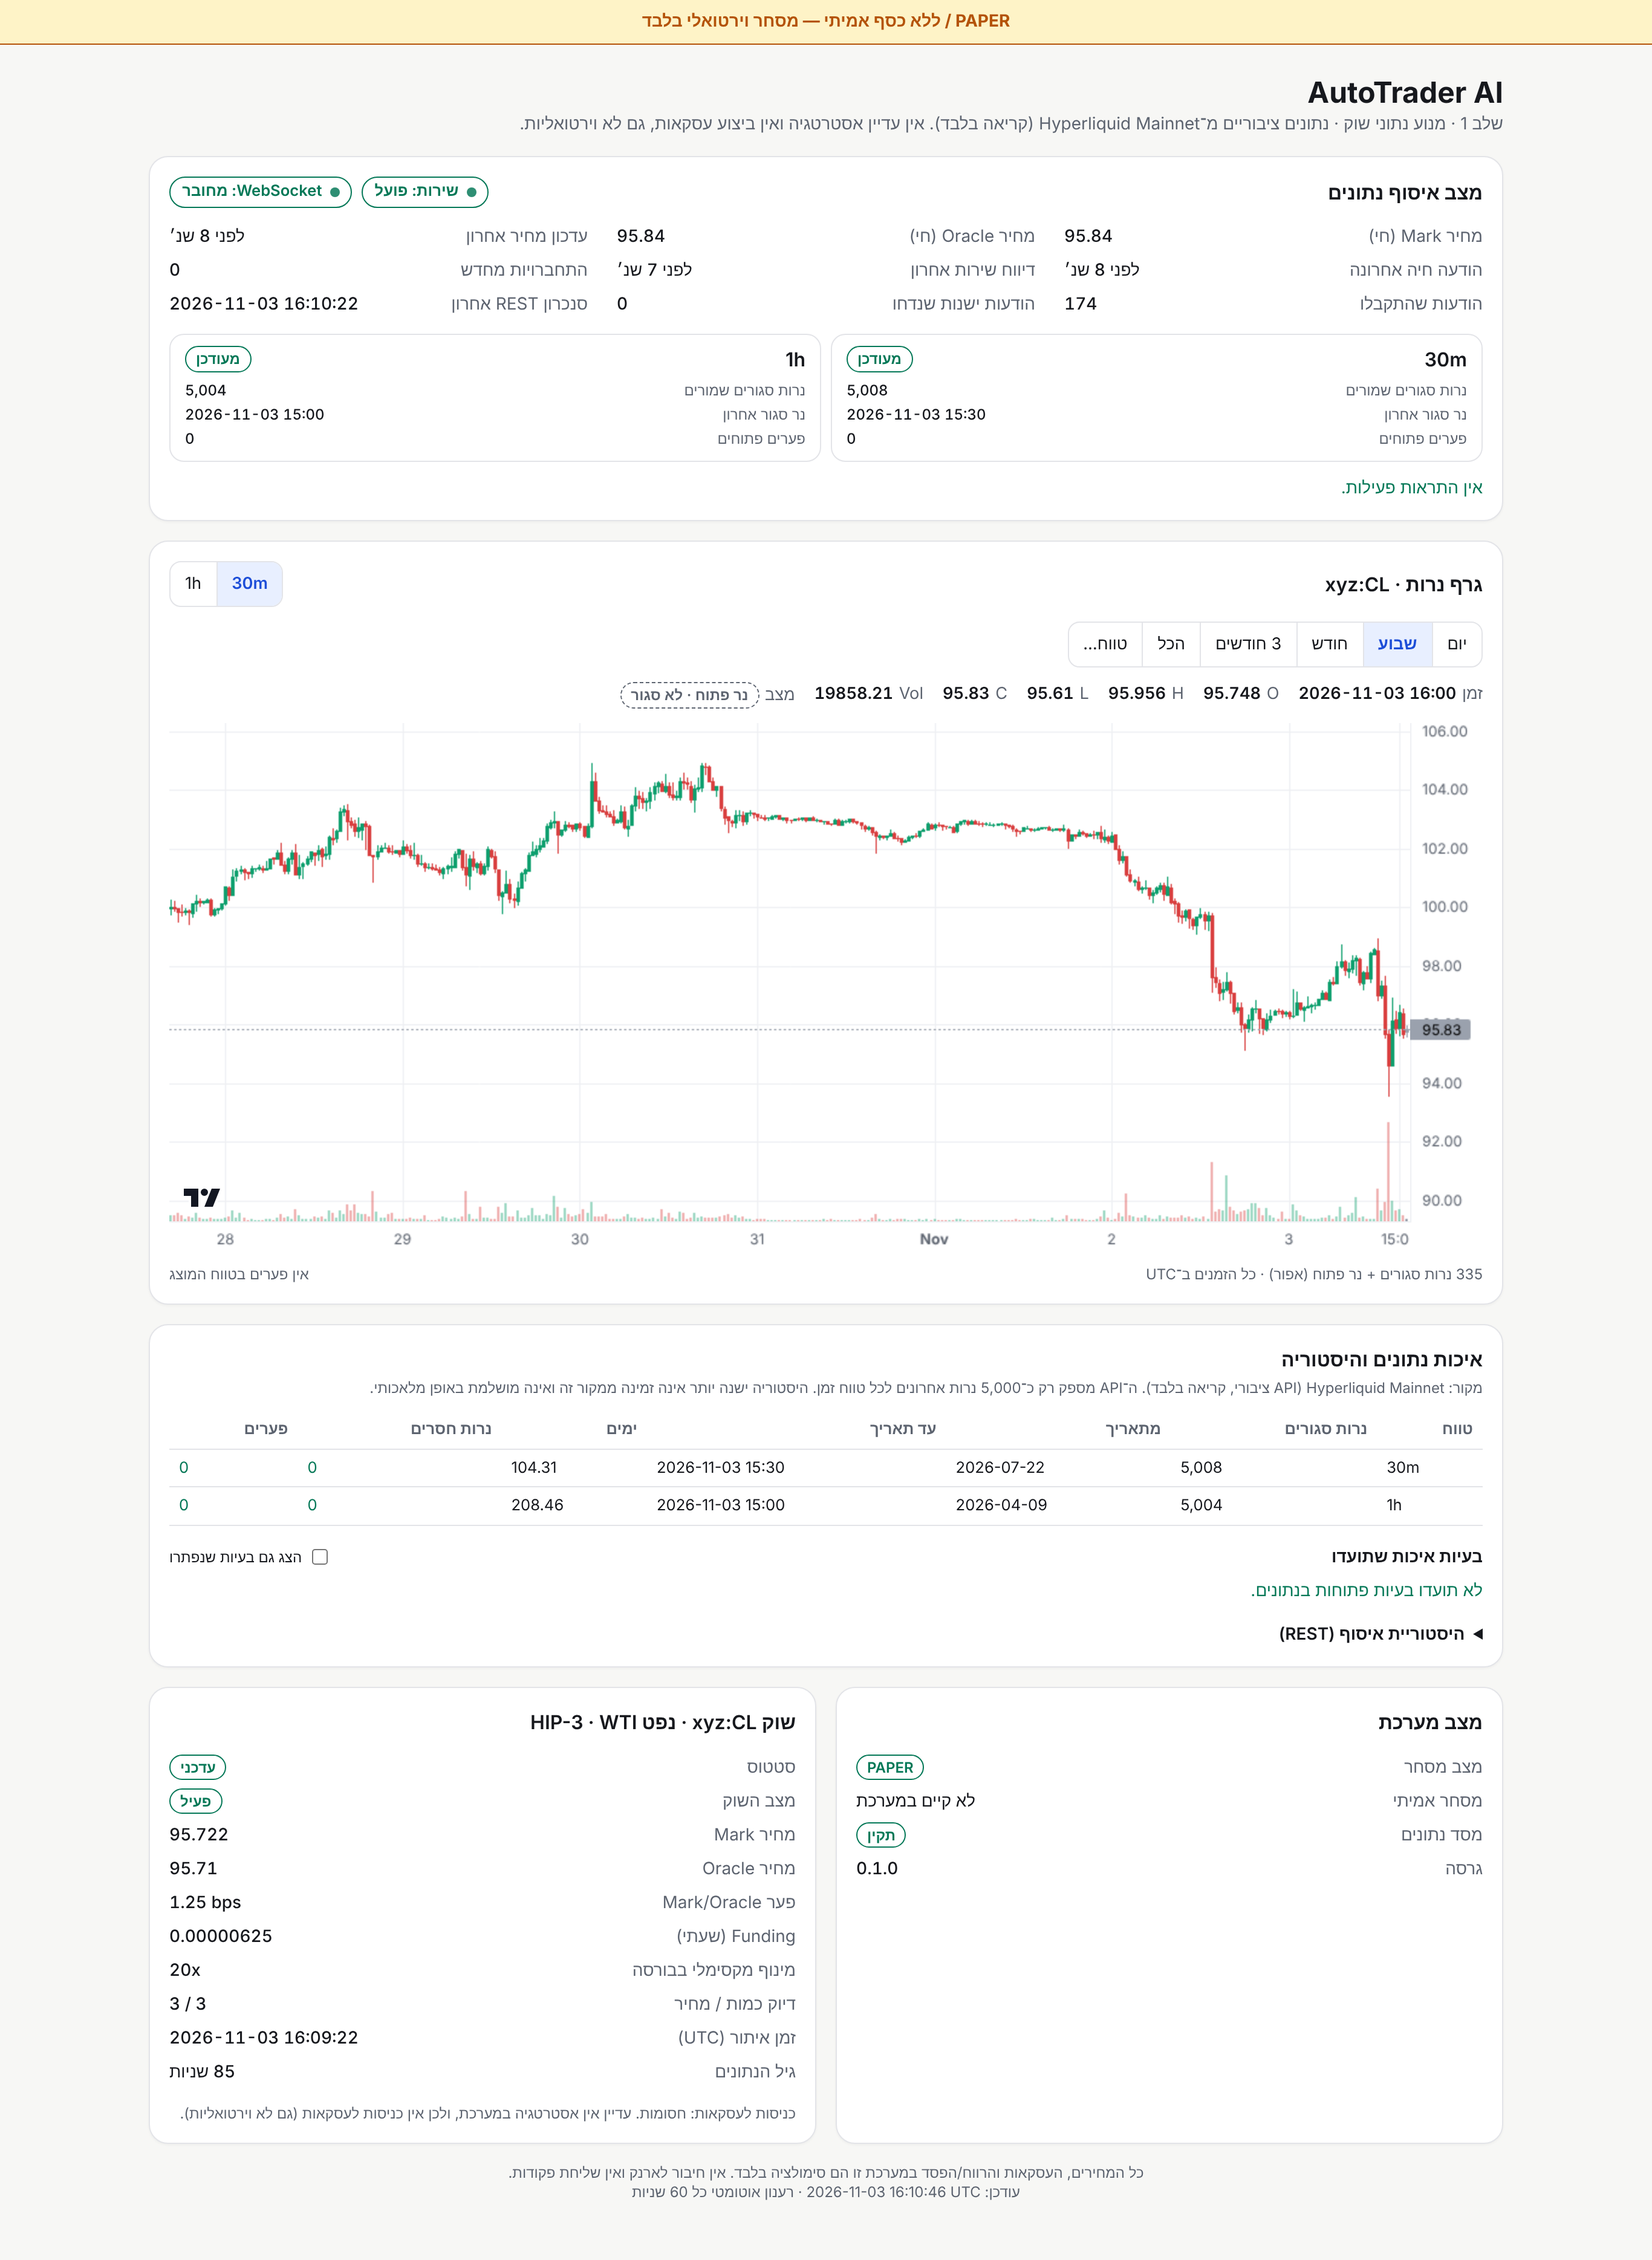
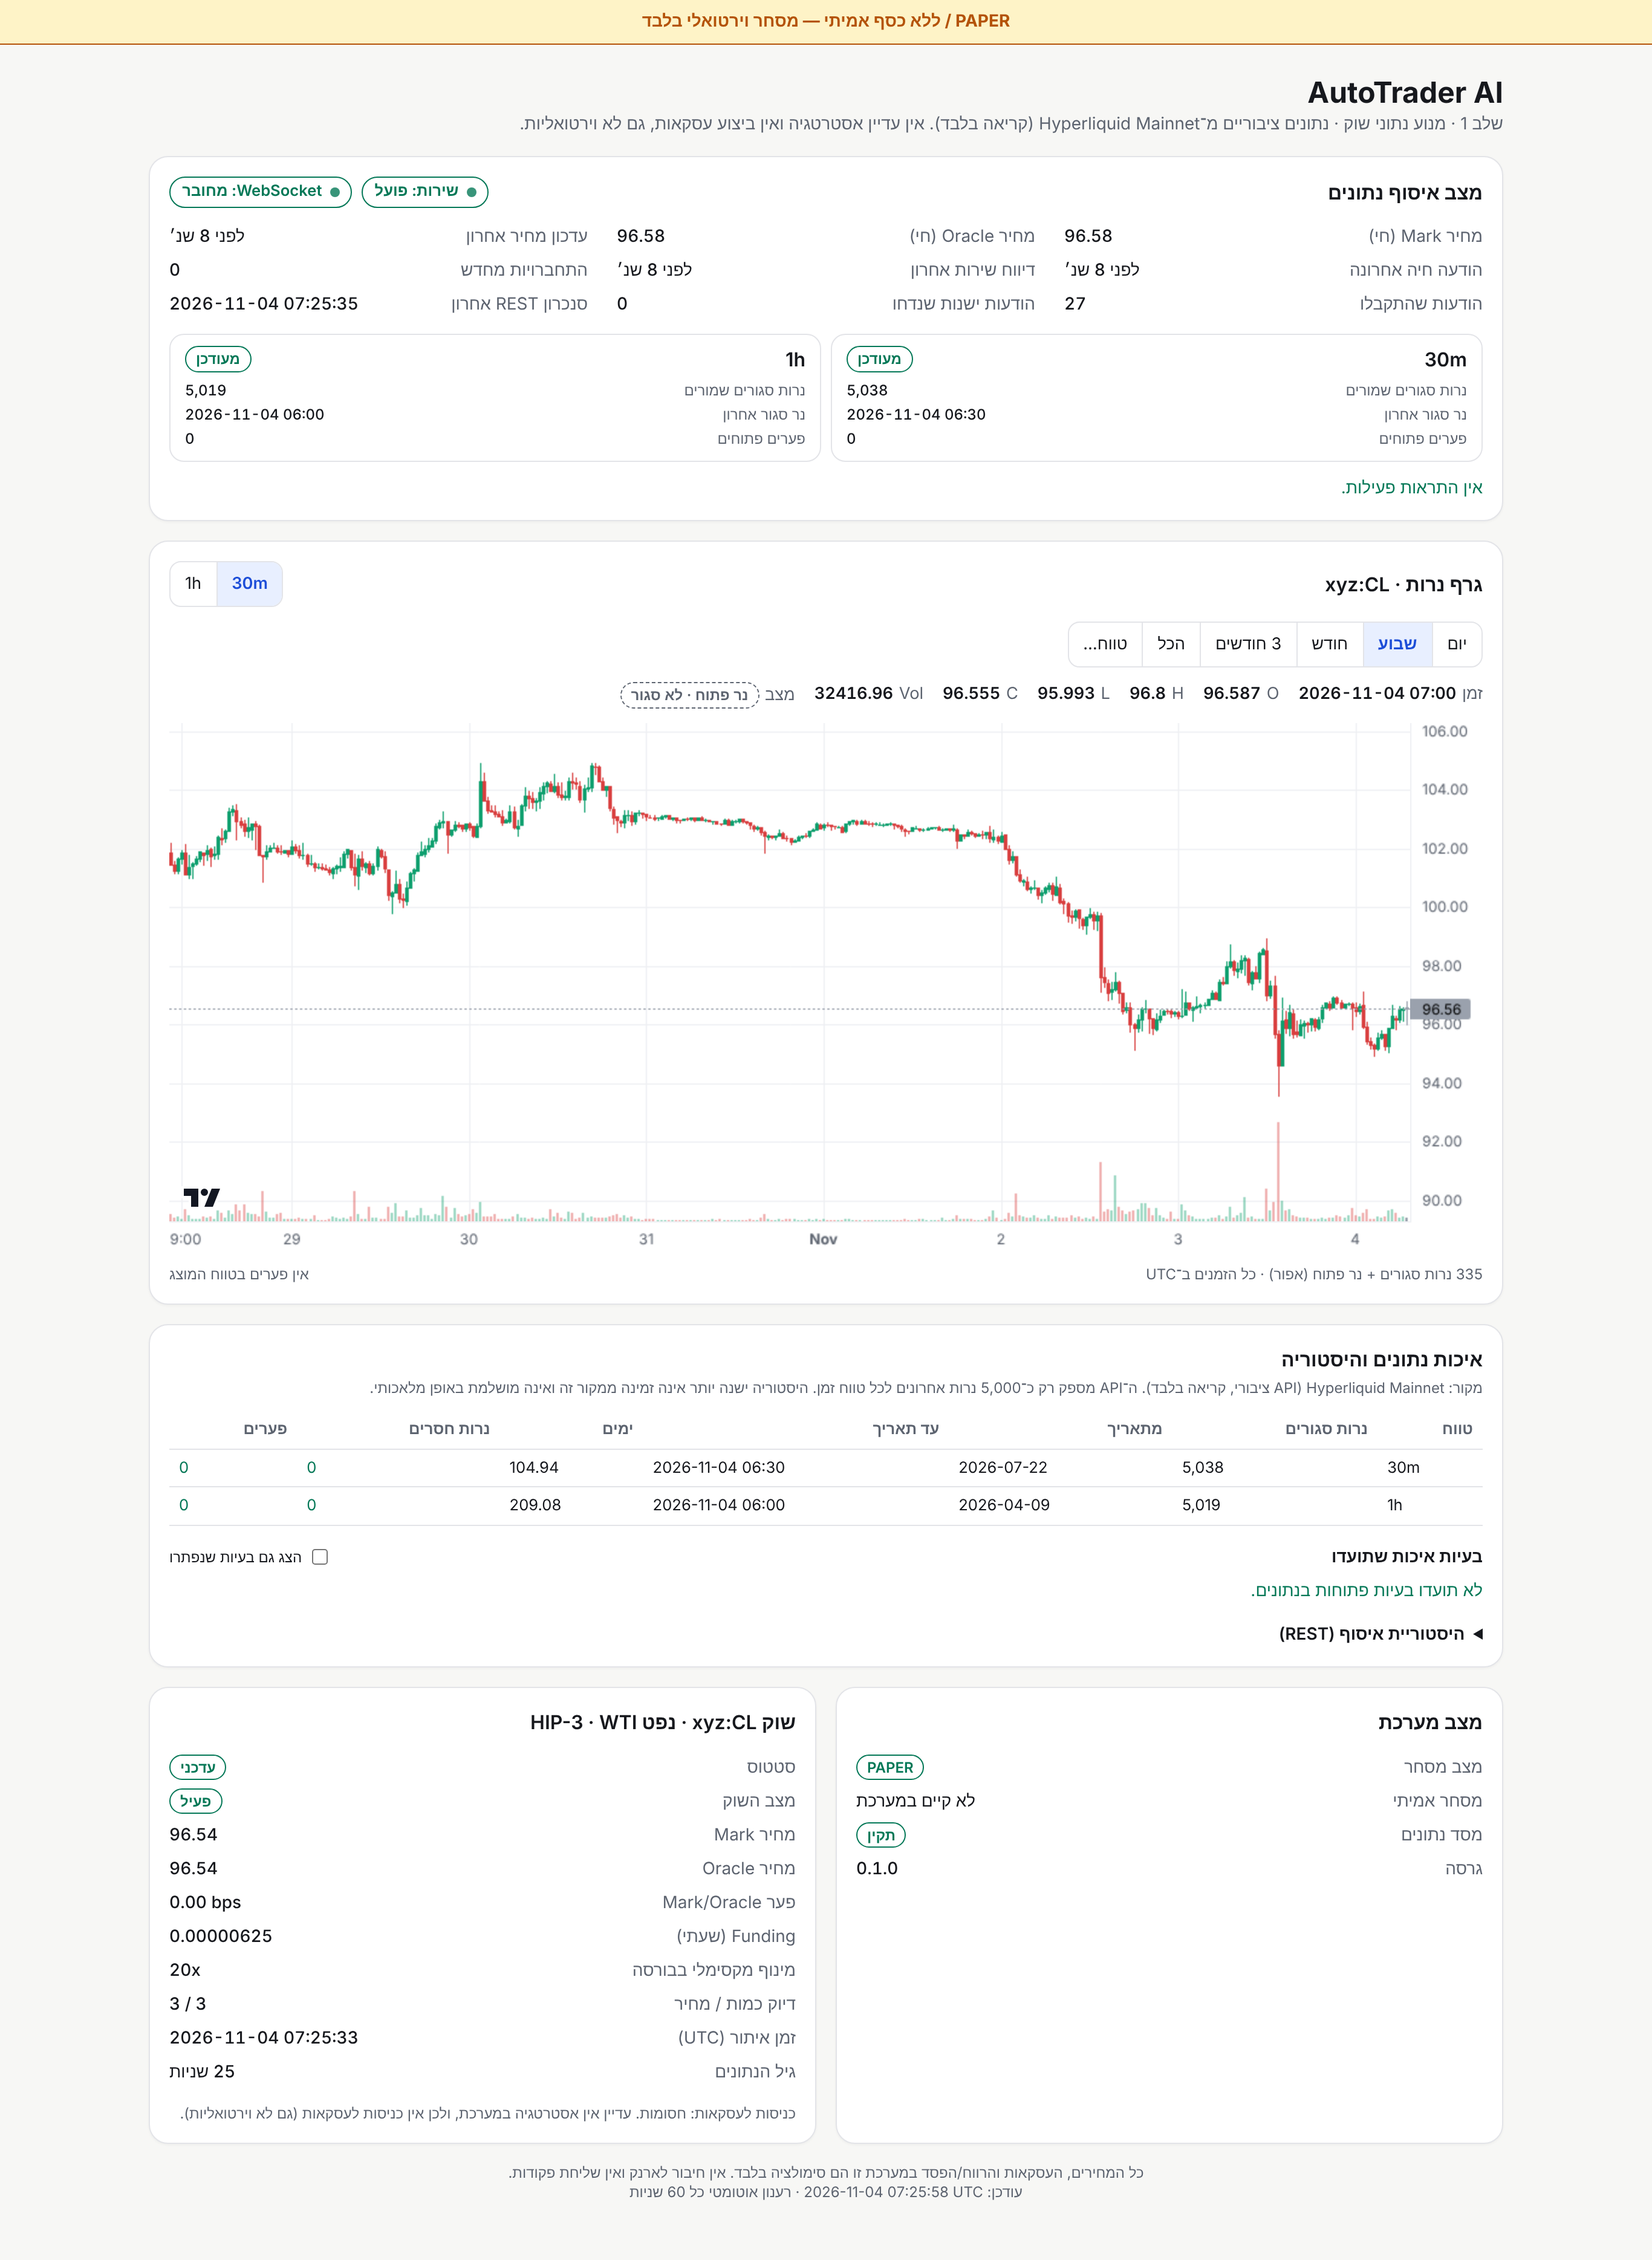
Phase 1 docs: final independent review findings and fixes, ADR-020
Claude-Session: https://claude.ai/code/session_019fsiDvFKvE3xNEoSwwjBHT

diff --git a/docs/PHASE1_REPORT.md b/docs/PHASE1_REPORT.md
@@ -163,6 +163,7 @@ Active attempts against the running system (run at 16:09 UTC):
 
 Local, Python 3.12 + PostgreSQL 16, with `RUN_LIVE_TESTS=1`:
 - **ruff** clean · **mypy --strict** clean (41 files).
+- **pytest after the final review: 305 passed** (301 + 4 live mainnet); 12 consecutive full runs green. Before the final review:
 - **pytest: 286 passed**:
   - 262 unit: safety 90, discovery 41, WS guard 29, candles 25, API 15 + market API 13, collector 11, resilience 9, storage 8, static 8, REST ingest 7, CLI 6;
   - 20 PostgreSQL;
@@ -171,6 +172,35 @@ Local, Python 3.12 + PostgreSQL 16, with `RUN_LIVE_TESTS=1`:
 - **Browser checks:** desktop 1366 px and iPhone 14; no horizontal scroll, no console errors, CSP intact.
 - **CI on GitHub:** backend ✔, frontend ✔, docker ✔. The final commit's CI result is reported in the PR.
 
+## 7b. Final independent review (2026-11-04) and fixes
+
+An independent reviewer (no access to the author's conclusions) reviewed the full Phase 1 diff against `main`. **No critical issues**: no path to orders or signed actions, user channels or wallet keys. Every finding below was reproduced or checked, fixed, and covered by a regression test (`tests/unit/test_phase1_review_regressions.py`, plus PostgreSQL tests). The H1, M1 and M2 tests were also run against the *old* code and **fail there**, so they really catch the bugs.
+
+| ID | Severity | Finding | Fix |
+|---|---|---|---|
+| H1 | High | A bar could be marked closed (and frozen) from a snapshot **requested before it closed** when the response was slow. Reproduced: request at 15:59:59, response at 16:00:06 → `is_closed=True` | "Closed" is decided by the time the request was **sent** (`closed_as_of`) |
+| M1 | Medium | Reconnect backoff never reset after a successful session, so after ~7 drops (even days apart) every reconnect waited 30–60 s | Backoff resets after any session that connected |
+| M2 | Medium | The write lock was held during the REST HTTP call, so a slow API stalled WS frame handling and forced stale-reconnect loops | Lock only around DB writes; separate sync lock; post-connect gap fill runs in the background |
+| M3 | Medium | UI could show stale data as live: a leftover forming bar from a dead collector drawn as the current bar; "(live)" prices while the collector was down; out-of-order responses could show 30m under the "1h" button | API returns `forming` only if current (plus `stale_forming_open_time` and `fresh`); stale-data banner on the chart; "(last known)" + dimmed prices unless connected and recent; out-of-order responses dropped |
+| M4 | Medium | After `run()` returned, a still-running sync thread could write after the STOPPED heartbeat and after the lock was released. `autotrader backfill` ignored the writer lock | Shutdown drains in-flight syncs and refuses new writes before STOPPED and before the lock is released; CLI backfill takes the lock (exit 5 if a collector runs) |
+| L1 | Low | Closed-bar immutability was enforced only in code | Migration 0004: DB trigger rejects any UPDATE of a closed candle (verified as `autotrader_worker`) |
+| L2 | Low | An older REST snapshot could rewind a forming bar updated by WS | Same volume/trade-count rule for REST unless REST is closing the bar |
+| L3 | Low | A DB error while storing left the ingestion run RUNNING forever; made one collector test flaky | Store failure marks the run FAILED; flakiness gone (12/12 full runs green) |
+| L4 | Low | Untimed rejections overwrote each other; REJECTED alerts never expired | One row per reason; the alert covers the last 24 h (history kept in the issue list) |
+| L5 | Low | Trade count `n` accepted floats, bools and negatives | Strict non-negative int32 |
+| L7 | Low | Lock-loss detection window of 30 s | 10 s |
+| L8 | Low | Duplicate JSON keys could be read differently by the guard and by a server | Outgoing REST and WS payloads with duplicate keys are rejected |
+
+**Fixed in the tests themselves:**
+- The unit-test SQLite fixture used one in-memory connection shared by all threads, so one session's rollback could undo another thread's transaction. It now uses a file-backed DB with one connection per session, like PostgreSQL.
+- A collector test now waits for the background gap fill it asserts on.
+
+**Accepted, documented (no code change):**
+- **L6:** values with more than 18 decimals would compare unequal after NUMERIC rounding. Hyperliquid prices have at most 6 decimals.
+- **Lock DoS:** any DB role, including the read-only one, can take the collector's advisory-lock key and stop it from starting (exit 5). That needs DB credentials and can only *block* writes, never make them. PostgreSQL has no per-key permission for advisory locks.
+
+**Deployed to the running dev system:** migration 0004 applied and the collector gracefully restarted. Closed bar counts were identical before and after, `RUNNING/CONNECTED`, no errors, `fresh=true`.
+
 ## 8. Known limitations
 1. **History depth** is limited by the API (~5,000 bars per interval: 30m ≈ 104 days, 1h ≈ 208 days). That's enough for development and validation, but **thin for a statistically strong backtest**, especially at 1h. Phase 2 must report sample sizes and label results INCONCLUSIVE when appropriate. Coverage grows as long as the collector keeps running.
 2. **Closed-bar latency:** a bar becomes "closed" in the DB about 5–35 s after the period ends (grace + 30 s finalize cycle).
@@ -178,7 +208,7 @@ Local, Python 3.12 + PostgreSQL 16, with `RUN_LIVE_TESTS=1`:
 4. **(Resolved)** Bars closing during an outage: verified live by the ~14.5-hour outage on 2026-11-04 (§4.2). Note that while the collector is down **no new data is collected**: the gap is filled on restart only because the API still serves those bars. Outages longer than the API window (~104 days at 30m) would lose data permanently, so production needs a restart policy and alerting.
 5. **External WTI session calendar** (blueprint §2.5) is not implemented yet. It is needed before any paper entries (Phase 3). Phase 1 only collects data.
 6. **No authentication** on the web or API yet (read-only, localhost-bound). Required before any online exposure (Phase 4).
-7. **The advisory lock** prevents two collectors per database. Running collectors against *different* databases is allowed by design (the isolated chaos test relied on this).
+7. **The advisory lock** prevents two writers per database (collector or CLI backfill). Running collectors against *different* databases is allowed by design (the isolated chaos test relied on this). Any role with DB access can take the lock key and block the collector from starting (it cannot write anything).
 8. **`hyperliquid.gitbook.io` is blocked** from this environment. The fee and tick-size notes (ADR-004/005) are still not re-verified against the docs.
 9. **REST rate limits:** heavy full-history requests from a shared egress can hit HTTP 429. The collector only makes small incremental requests, but large manual backfills should be spaced out.
 

diff --git a/docs/DECISIONS.md b/docs/DECISIONS.md
@@ -109,3 +109,9 @@ The database keeps all bars it has ever collected, so coverage grows over time w
 - The login users `autotrader_api` and `autotrader_worker` come from `infra/db/roles.sql` (run automatically by the compose DB on first start).
 - Only migrations use the owner account.
 - A test asserts every table is granted to both roles, so future tables can't be forgotten.
+
+## ADR-020 — Closing is decided at request time; shutdown drains writers (2026-11-04, final review)
+- A REST snapshot can close a bar only if the bar had ended (plus 5 s) **when the request was sent**, never by the response time. A slow response must not freeze partial data (H1).
+- Candle writes hold `_write_lock` only around DB transactions; whole REST syncs are serialised by `_sync_lock`, and network I/O never holds the write lock (M2).
+- On shutdown the collector drains in-flight syncs and refuses new writes **before** reporting STOPPED and before the single-writer lock is released (M4). `autotrader backfill` takes the same lock.
+- Closed candles are immutable in the database itself (migration 0004 trigger).

diff --git a/docs/TEST_RESULTS.md b/docs/TEST_RESULTS.md
@@ -1,6 +1,14 @@
 # Test Results
 
-## Phase 1 (2026-11-03, latest)
+## Phase 1 after the final independent review (2026-11-04, latest)
+```
+ruff / format / mypy --strict  -> clean (42 files)
+pytest (unit + PostgreSQL)     -> 301 passed, 12 consecutive full runs green
+pytest -m live (mainnet)       -> 4 passed (REST discovery, 30m/1h candles, guarded WS)
+web: lint / typecheck / build  -> ok
+```
+
+## Phase 1 (2026-11-03)
 ```
 ruff check / format --check   -> clean
 mypy --strict                 -> Success: no issues found in 41 source files
